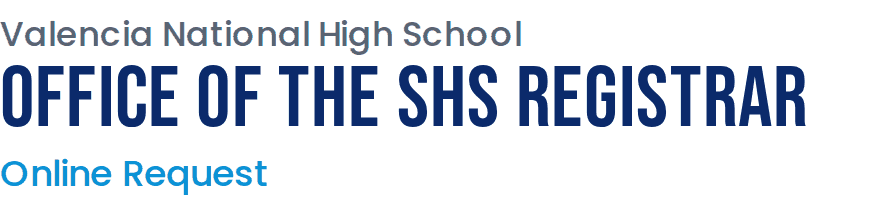
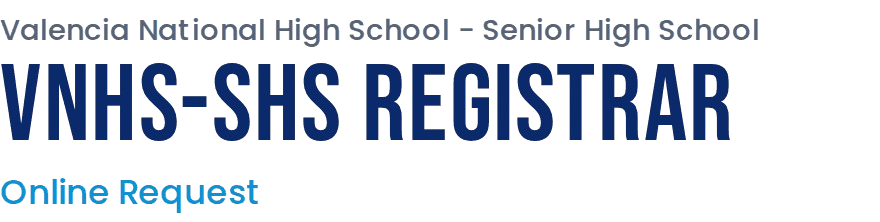
Add files via upload

Changed region(s): [[0.0, 0.0874, 0.9205, 0.6408], [0.0, 0.7573, 0.3068, 0.9612]]

diff --git a/script.js b/script.js
@@ -1,20 +1,37 @@
 (() => {
 const $ = s => document.querySelector(s), $$ = s => [...document.querySelectorAll(s)];
 document.documentElement.classList.add('js');
-// Paste your Google Apps Script Web app URL here (see the setup steps)
-const ENDPOINT = 'https://script.google.com/macros/s/AKfycby1SIQHixCq1fJVodbcekZVC15r-GHJMYR8aryU1QMQK_LP2GeRuWJkvxgegRaxsZC3/exec';
-const useGoogle = !ENDPOINT.includes('PASTE_');
+const ENDPOINT = window.REGISTRAR_ENDPOINT || '';           // set once in config.js
+const useGoogle = ENDPOINT.startsWith('https://script.google.com/');
 const form = $('#f'), esc = s => String(s).replace(/[&<>"]/g, c => ({'&':'&amp;','<':'&lt;','>':'&gt;','"':'&quot;'}[c]));
+// "JUAN" or "dela cruz" becomes "Juan" / "Dela Cruz"; mixed capitals are left alone
 const tidy = t => { t = (t || '').trim().replace(/\s+/g, ' '); return (t === t.toUpperCase() || t === t.toLowerCase()) ? t.toLowerCase().replace(/(^|[\s-])([a-z])/g, (m, a, c) => a + c.toUpperCase()) : t; };
-const today = new Date(); today.setHours(0, 0, 0, 0); const Y = today.getFullYear();
+$('#yr').textContent = new Date().getFullYear();
+$$('[inputmode=numeric]').forEach(i => i.addEventListener('input', () => { if (i.name != 'School Year') i.value = i.value.replace(/\D/g, ''); }));
 
-// Dropdown years: school year 2026-2027 to 2034-2035 (change 2034 to extend)
-for (let y = 2026; y <= 2034; y++) $('#sy').add(new Option(`${y}-${y + 1}`, `${y}-${y + 1}`));
-$('#yr').textContent = Y;
-
-$$('[inputmode=numeric]').forEach(i => i.addEventListener('input', () => i.value = i.value.replace(/\D/g, '')));
-const io = new IntersectionObserver(es => es.forEach(e => { if (e.isIntersecting) { e.target.classList.add('in'); io.unobserve(e.target); } }), {threshold: .1});
+// Scroll reveal
+const io = new IntersectionObserver(es => es.forEach(e => { if (e.isIntersecting) { e.target.classList.add('vis'); io.unobserve(e.target); } }), {threshold: .1});
 $$('.rv').forEach(el => io.observe(el));
+
+// ===== Pages (Home, Request a Form, Track a Request) =====
+const V = {home: $('#v-home'), request: $('#v-request'), track: $('#v-track')};
+let cur = 'home';
+function route() {
+  const id = (location.hash || '#home').slice(1);
+  const view = id == 'request' || id == 'requirements' ? 'request' : id == 'track' ? 'track' : id == 'contact' ? cur : 'home';
+  const changed = view != cur; cur = view;
+  Object.keys(V).forEach(k => V[k].hidden = k != view);          // showing a page replays its fade-in
+  $$('nav li a').forEach(a => a.classList.toggle('on', a.hash == '#' + id));
+  const target = ['requirements', 'faq', 'contact'].includes(id) ? document.getElementById(id) : null;
+  requestAnimationFrame(() => target ? target.scrollIntoView({behavior: changed ? 'instant' : 'smooth', block: 'start'}) : scrollTo({top: 0, behavior: changed ? 'instant' : 'smooth'}));
+}
+addEventListener('hashchange', route); route();
+
+// Document cards on the home page pre-select the document
+$$('[data-doc]').forEach(a => a.addEventListener('click', () => {
+  const r = $$('input[name="Request For"]').find(i => i.value == a.dataset.doc);
+  if (r) { r.checked = true; r.dispatchEvent(new Event('change', {bubbles: true})); }
+}));
 
 // Phone menu
 const nav = $('nav'), burger = $('.burger');
@@ -23,81 +40,51 @@ burger.addEventListener('click', () => menu(!nav.classList.contains('menu-open')
 $$('nav li a').forEach(a => a.addEventListener('click', () => menu(false)));
 document.addEventListener('click', e => { if (!e.target.closest('nav')) menu(false); });
 
-// Copies stepper (1 to 5)
-$$('.stepper button').forEach(b => b.addEventListener('click', () => {
-  const i = b.parentElement.querySelector('input'); i.value = Math.min(5, Math.max(1, +i.value + +b.dataset.s));
-}));
+// ===== School year: free typing, with a prompt when only one year is entered =====
+const sy = form.elements['School Year'], syh = $('#syh');
+const note = (html, bad) => { syh.className = 'syh' + (bad ? ' bad' : ''); syh.innerHTML = html; };
+function checkSY(final) {
+  const v = sy.value.trim(); sy.setCustomValidity('');
+  if (!v) return note('');
+  let m = v.match(/^(\d{4})\s*[-\u2013\/ ]\s*(\d{4})$/);
+  if (m) {
+    const a = +m[1], b = +m[2];
+    if (b == a + 1 && a >= 1990 && a <= 2100) { sy.value = a + '-' + b; return note(''); }
+    sy.setCustomValidity('Use two consecutive years.'); return note('The two years must be consecutive, for example 2025-2026.', true);
+  }
+  m = v.match(/^(\d{4})$/);
+  if (m) {
+    sy.setCustomValidity('Choose a school year.');
+    if (!final) return;
+    const y = +m[1];
+    return note(`Only one year entered. Did you mean:<div class="chips"><button type="button" class="chip" data-v="${y - 1}-${y}">${y - 1}-${y}</button><button type="button" class="chip" data-v="${y}-${y + 1}">${y}-${y + 1}</button></div>`);
+  }
+  if (final) { sy.setCustomValidity('Enter a school year like 2025-2026.'); note('Enter a school year like 2025-2026.', true); }
+}
+sy.addEventListener('input', () => { sy.value = sy.value.replace(/[^\d\-\u2013\/ ]/g, ''); note(''); checkSY(false); });
+sy.addEventListener('change', () => checkSY(true));
+syh.addEventListener('click', e => {
+  const c = e.target.closest('.chip'); if (!c) return;
+  sy.value = c.dataset.v; checkSY(true); sy.dispatchEvent(new Event('input', {bubbles: true}));
+});
 
-// Progress bar + conditional fields
+// ===== Progress bar + conditional fields =====
 const toggle = (box, on) => { box.classList.toggle('show', on); box.querySelectorAll('input,select').forEach(i => { i.disabled = !on; i.required = on; }); };
 function sync() {
   const v = n => form.elements[n].value;
-  toggle($('#m-cert'), v('Request For') === 'Certification');
-  toggle($('#m-oth'), v('Purpose') === 'Others');
-  toggle($('#m-rep'), v('Requester') === 'A representative');
-  toggle($('#m-claim'), !!v('Claim Method') && v('Claim Method') !== 'Pick up in person');
+  toggle($('#m-cert'), v('Request For') == 'Certification');
+  toggle($('#m-dip'), v('Request For') == 'Second Issuance of Diploma');
+  toggle($('#m-oth'), v('Purpose') == 'Others');
+  toggle($('#m-rep'), v('Requester') == 'A Representative');
+  toggle($('#m-claim'), !!v('Claim Method') && v('Claim Method') != 'Pick up in person');
   const names = [...new Set($$('#f [required]').filter(e => !e.disabled).map(e => e.name))];
-  const done = names.filter(n => { const e = form.elements[n]; return e.type === 'checkbox' ? e.checked : !!e.value; }).length;
+  const done = names.filter(n => { const e = form.elements[n]; return e.type == 'checkbox' ? e.checked : !!e.value; }).length;
   const p = Math.round(done / names.length * 100);
   $('#bar').style.width = p + '%'; $('#pc').textContent = p + '% complete';
 }
 form.addEventListener('input', sync); form.addEventListener('change', sync);
 
-// Calendars (request date, birthdate, claim date)
-const MS = ['January','February','March','April','May','June','July','August','September','October','November','December'];
-const CFG = {
-  request: {from: Y, to: Y + 1, min: today, start: Y},
-  claim: {from: Y, to: Y + 1, min: today, start: Y},
-  birth: {from: Y - 40, to: Y - 10, max: today, start: Y - 17, desc: true, noToday: true}
-};
-const pickers = [];
-function picker(root, o) {
-  const i = root.querySelector('input'), c = root.querySelector('.cal'), er = root.querySelector('.err');
-  const p = {i, c, er, v: null, y: o.start, m: today.getMonth(), req: root.hasAttribute('data-req')};
-  const draw = () => {
-    const {y, m} = p, first = new Date(y, m, 1).getDay(), days = new Date(y, m + 1, 0).getDate(), ys = [];
-    for (let t = o.from; t <= o.to; t++) ys.push(t); if (o.desc) ys.reverse();
-    let h = `<div class="ch"><button type="button" data-n="-1" aria-label="Previous month">&lsaquo;</button>
-    <select data-k="m" aria-label="Month">${MS.map((n, k) => `<option value="${k}"${k == m ? ' selected' : ''}>${n}</option>`).join('')}</select>
-    <select data-k="y" aria-label="Year">${ys.map(t => `<option${t == y ? ' selected' : ''}>${t}</option>`).join('')}</select>
-    <button type="button" data-n="1" aria-label="Next month">&rsaquo;</button></div><div class="cg">` +
-      ['Su','Mo','Tu','We','Th','Fr','Sa'].map(d => `<span class="w">${d}</span>`).join('') + '<span></span>'.repeat(first);
-    for (let d = 1; d <= days; d++) {
-      const dt = new Date(y, m, d), k = ['d'], off = (o.min && dt < o.min) || (o.max && dt > o.max);
-      if (+dt == +today) k.push('today'); if (p.v && +dt == +p.v) k.push('sel');
-      h += `<button type="button" class="${k.join(' ')}" data-d="${d}"${off ? ' disabled' : ''}>${d}</button>`;
-    }
-    c.innerHTML = h + `</div><div class="cf">${o.noToday ? '<span></span>' : '<button type="button" data-a="today">Today</button>'}<button type="button" data-a="clear">Clear</button></div>`;
-  };
-  const pick = d => {
-    p.v = d; i.value = d ? d.toLocaleDateString('en-US', {month: 'long', day: 'numeric', year: 'numeric'}) : '';
-    er.textContent = ''; c.classList.remove('open'); i.dispatchEvent(new Event('input', {bubbles: true}));
-  };
-  const open = () => {
-    $$('.cal.open').forEach(x => x.classList.remove('open'));
-    const b = p.v || new Date(o.start, today.getMonth(), 1); p.y = b.getFullYear(); p.m = b.getMonth(); draw(); c.classList.add('open');
-  };
-  i.addEventListener('click', open);
-  i.addEventListener('keydown', e => { if (e.key == 'Enter' || e.key == ' ') { e.preventDefault(); open(); } });
-  c.addEventListener('click', e => {
-    const t = e.target.closest('button'); if (!t) return;
-    if (t.dataset.n) {
-      p.m += +t.dataset.n; if (p.m < 0) { p.m = 11; p.y--; } if (p.m > 11) { p.m = 0; p.y++; }
-      p.y = Math.min(Math.max(p.y, o.from), o.to); draw();
-    } else if (t.dataset.d) pick(new Date(p.y, p.m, +t.dataset.d));
-    else if (t.dataset.a == 'today') pick(new Date(today));
-    else if (t.dataset.a == 'clear') pick(null);
-  });
-  c.addEventListener('change', () => { p.m = +c.querySelector('[data-k=m]').value; p.y = +c.querySelector('[data-k=y]').value; draw(); });
-  pickers.push(p);
-}
-$$('.dp').forEach(r => picker(r, CFG[r.dataset.dp]));
-document.addEventListener('click', e => {
-  const path = e.composedPath(); // keeps the calendar open when a button inside it re-draws the grid
-  $$('.cal.open').forEach(c => { if (!path.includes(c.parentElement)) c.classList.remove('open'); });
-});
-
-// FAQ pop-out window
+// ===== FAQ pop-out window =====
 const fov = $('#fov');
 const faq = on => { fov.classList.toggle('open', on); document.body.style.overflow = on ? 'hidden' : ''; if (on) $('#fclose').focus(); };
 $$('.fq').forEach((b, i, all) => b.addEventListener('click', () => {
@@ -109,40 +96,45 @@ $$('.fq').forEach((b, i, all) => b.addEventListener('click', () => {
 $('#fclose').onclick = $('#fx').onclick = () => faq(false);
 fov.addEventListener('click', e => { if (e.target == fov) faq(false); });
 
-// Data privacy notice window (opens when the box is ticked)
+// ===== Data privacy notice window (opens when the box is ticked, or read-only from the footer) =====
 const pov = $('#pov'), pb = $('#pbody'), cb = form.elements['Privacy Consent'];
 let consent = false;
 const atEnd = () => { $('#pagree').disabled = pb.scrollHeight - pb.scrollTop - pb.clientHeight > 12; };
-const privacy = on => { pov.classList.toggle('open', on); document.body.style.overflow = on ? 'hidden' : ''; if (on) { pb.scrollTop = 0; atEnd(); pb.focus(); } };
+const privacy = (on, read) => {
+  pov.classList.toggle('open', on); document.body.style.overflow = on ? 'hidden' : '';
+  if (!on) return;
+  $('#pagree').hidden = $('#pov .phint').hidden = !!read; $('#pdecline').textContent = read ? 'Close' : 'Decline';
+  pb.scrollTop = 0; atEnd(); pb.focus();
+};
 pb.addEventListener('scroll', atEnd);
 cb.addEventListener('change', () => { if (cb.checked && !consent) { cb.checked = false; privacy(true); } else if (!cb.checked) consent = false; });
 $$('.plink').forEach(a => a.addEventListener('click', e => { e.preventDefault(); privacy(true); }));
+$$('.pread').forEach(a => a.addEventListener('click', e => { e.preventDefault(); privacy(true, true); }));
 $('#pagree').onclick = () => { consent = true; cb.checked = true; privacy(false); cb.dispatchEvent(new Event('input', {bubbles: true})); };
 $('#pdecline').onclick = $('#px').onclick = () => privacy(false);
 pov.addEventListener('click', e => { if (e.target == pov) privacy(false); });
 
-// Review window
+// ===== Review window =====
 const ov = $('#ov');
 const show = on => { ov.classList.toggle('open', on); document.body.style.overflow = on ? 'hidden' : ''; if (on) $('#ok').focus(); };
 form.addEventListener('submit', e => {
-  e.preventDefault(); form.classList.add('tried');
+  e.preventDefault(); form.classList.add('tried'); checkSY(true);
   if (!form.reportValidity()) return;
-  const miss = pickers.filter(p => p.req && !p.i.value);
-  if (miss.length) { miss.forEach(p => p.er.textContent = 'Please select a date.'); miss[0].i.scrollIntoView({block: 'center'}); return; }
   $('#rl').innerHTML = [...new FormData(form)].filter(([k, v]) => k != 'Website' && v !== '')
     .map(([k, v]) => `<div><dt>${k == 'email' ? 'Email' : esc(k)}</dt><dd>${esc(v)}</dd></div>`).join('');
   $('#em').textContent = ''; $('#rv').hidden = false; $('#done').hidden = true; show(true);
 });
 $('#back').onclick = () => show(false);
 ov.addEventListener('click', e => { if (e.target == ov && !$('#rv').hidden) show(false); });
-document.addEventListener('keydown', e => { if (e.key == 'Escape') { $$('.cal.open').forEach(c => c.classList.remove('open')); faq(false); privacy(false); if (!$('#rv').hidden) show(false); } });
+document.addEventListener('keydown', e => { if (e.key == 'Escape') { faq(false); privacy(false); if (!$('#rv').hidden) show(false); } });
 
+// ===== Send =====
 $('#ok').onclick = async () => {
   const b = $('#ok'); $('#em').textContent = '';
   if (!useGoogle) { $('#em').textContent = "The registrar's system is not connected yet. Please try again later."; return; }
   const data = Object.fromEntries(new FormData(form));
   const fn = tidy(data['First Name']), mn = tidy(data['Middle Name']), ln = tidy(data['Last Name']);
-  data['Student Name'] = ln + ', ' + fn + (mn ? ' ' + mn : '');
+  data['Learner Name'] = ln + ', ' + fn + (mn ? ' ' + mn : '');       // one column in the sheet: "Dela Cruz, Juan Santos"
   ['First Name', 'Middle Name', 'Last Name'].forEach(k => delete data[k]);
   Object.keys(data).forEach(k => data[k] === '' && delete data[k]);
   b.disabled = true; b.classList.add('load');
@@ -155,19 +147,21 @@ $('#ok').onclick = async () => {
 };
 const finish = () => { show(false); form.reset(); form.classList.remove('tried'); $('#copy').textContent = 'Copy reference no.'; };
 $('#copy').onclick = () => { navigator.clipboard && navigator.clipboard.writeText($('#ref').textContent); $('#copy').textContent = 'Copied!'; };
-$('#fin').onclick = () => { finish(); scrollTo({top: 0, behavior: 'smooth'}); };
-$('#gotrack').onclick = () => { $('#tref').value = $('#ref').textContent; finish(); $('#track').scrollIntoView({behavior: 'smooth'}); };
-form.addEventListener('reset', () => { pickers.forEach(p => p.v = null); consent = false; setTimeout(sync); });
+$('#fin').onclick = () => { finish(); location.hash = '#home'; };
+$('#gotrack').onclick = () => { $('#tref').value = $('#ref').textContent; finish(); location.hash = '#track'; };
+form.addEventListener('reset', () => { consent = false; note(''); sy.setCustomValidity(''); setTimeout(sync); });
 
-// Request tracking
-const STEPS = ['Received', 'Processing', 'Ready for pick-up', 'Released'];
+// ===== Request tracking =====
 function renderTrack(j) {
-  const idx = {'Received': 0, 'Processing': 1, 'Needs documents': 1, 'Ready for pick-up': 2, 'Released': 3}[j.status] ?? 0, warn = j.status == 'Needs documents';
-  $('#tres').innerHTML = `<div class="tl">${STEPS.map((s, k) => `<div><i>${k + 1}</i>${s}</div>`).join('')}</div>` +
-    (warn ? '<p class="tmsg" style="background:#fff8e1;color:#7a5200">Additional documents are needed. Please read the note from the registrar below.</p>' : '') +
-    `<div class="tinfo"><div><small>Request</small><b>${esc(j.type || '-')}</b></div><div><small>Status</small><b>${esc(j.status)}</b></div>
+  const st = j.status == 'Needs documents' ? 'On Hold' : j.status, hold = st == 'On Hold';
+  // "On Hold" only appears in the timeline when the sheet says the request is on hold
+  const steps = hold ? ['Received', 'Processing', 'On Hold', 'Ready for pick-up', 'Released'] : ['Received', 'Processing', 'Ready for pick-up', 'Released'];
+  const idx = Math.max(0, steps.indexOf(st));
+  $('#tres').innerHTML = `<div class="tl">${steps.map((s, k) => `<div><i>${k + 1}</i>${s}</div>`).join('')}</div>` +
+    (hold ? '<p class="tmsg" style="background:#fff8e1;color:#7a5200">Your request is on hold because the VNHS-SHS Registrar needs requirements from you. Please read the note below and contact the office at 0917-144-5973 or valencianationalshs@gmail.com.</p>' : '') +
+    `<div class="tinfo"><div><small>Request</small><b>${esc(j.type || '-')}</b></div><div><small>Status</small><b>${esc(st)}</b></div>
     <div><small>Last updated</small><b>${esc(j.updated || '-')}</b></div>${j.note ? `<div><small>Note from the registrar</small><b>${esc(j.note)}</b></div>` : ''}</div>`;
-  $$('#tres .tl div').forEach((el, k) => { if (k <= idx) setTimeout(() => { el.classList.add('on'); if (k == idx) el.classList.add(warn ? 'warn' : 'now'); }, 250 * k + 150); });
+  $$('#tres .tl div').forEach((el, k) => { if (k <= idx) setTimeout(() => { el.classList.add('on'); if (k == idx) el.classList.add(hold ? 'warn' : 'now'); }, 250 * k + 150); });
 }
 $('#trk').addEventListener('submit', async e => {
   e.preventDefault();

diff --git a/style.css b/style.css
@@ -71,24 +71,7 @@ legend b{width:26px;height:26px;border-radius:50%;background:var(--royal);color:
 .more.show{grid-template-rows:1fr}
 .more>div{overflow:hidden}.more>div>.f{margin-top:16px}
 
-.dp .in{padding-right:44px;cursor:pointer;caret-color:transparent}
-.dp svg{position:absolute;right:14px;top:37px;width:20px;height:20px;color:var(--royal);pointer-events:none}
-.cal{position:absolute;z-index:30;left:0;top:calc(100% + 6px);width:300px;padding:14px;background:#fff;border:1px solid var(--line);border-radius:16px;box-shadow:0 18px 44px rgba(12,42,107,.22);opacity:0;visibility:hidden;transform:translateY(-8px) scale(.97);transform-origin:top left;transition:all .25s}
-.cal.open{opacity:1;visibility:visible;transform:none}
-.ch{display:flex;gap:6px;margin-bottom:10px}
-.ch button{flex:none;width:32px;border:0;border-radius:8px;background:#f1f6fd;color:var(--royal);font-size:18px;cursor:pointer;transition:background .2s}
-.ch button:hover{background:#dcebfc}
-.ch select{flex:1;min-width:0;border:0;border-radius:8px;background:#f1f6fd;padding:6px;font:600 13px Poppins;color:var(--navy);cursor:pointer}
-.cg{display:grid;grid-template-columns:repeat(7,1fr);gap:2px;text-align:center;animation:fade .25s}
 @keyframes fade{from{opacity:0}}
-.cg .w{font-size:11px;font-weight:600;color:var(--mut);padding:4px 0}
-.cg .d{aspect-ratio:1;border:0;border-radius:50%;background:none;font:500 13px Poppins;color:var(--ink);cursor:pointer;transition:all .2s}
-.cg .d:hover:not(:disabled){background:#e3effd;transform:scale(1.1)}
-.cg .today{box-shadow:inset 0 0 0 1.5px var(--sky)}
-.cg .sel{background:var(--royal);color:#fff}
-.cg .d:disabled{color:#b8c2d3;cursor:not-allowed}
-.cf{display:flex;justify-content:space-between;margin-top:10px;padding-top:10px;border-top:1px solid var(--line)}
-.cf button{border:0;background:none;color:var(--royal);font:600 13px Poppins;cursor:pointer}
 
 .consent{display:flex;gap:12px;margin-top:22px;padding:14px 16px;border:1.5px solid var(--line);border-radius:12px;background:#f7faff;font-size:13px;color:var(--mut)}
 .consent input{flex:none;width:18px;height:18px;margin-top:3px;accent-color:var(--royal)}
@@ -150,13 +133,10 @@ dt{color:var(--mut);font-weight:500}dd{margin:0;font-weight:500;word-break:break
 .refno{display:inline-block;margin:8px 0;padding:8px 18px;border:1.5px dashed var(--royal);border-radius:10px;background:#eef5ff;font:600 18px Poppins;letter-spacing:.06em;color:var(--navy)}
 
 .js .rv{opacity:0;transform:translateY(24px);transition:opacity .7s,transform .7s cubic-bezier(.2,.8,.2,1)}
-.js .rv.in{opacity:1;transform:none}
+.js .rv.vis{opacity:1;transform:none}
 .f.s4{grid-column:span 4}
 .opts.two{grid-template-columns:repeat(2,1fr)}
 .hint{margin:14px 0 0;padding:10px 14px;background:#fff8e1;border-left:4px solid var(--gold);border-radius:8px;font-size:13px;color:#5c4a12}
-.stepper{display:flex;gap:8px}.stepper .in{text-align:center;font-weight:600;cursor:default}
-.stepper button{flex:none;width:44px;border:1.5px solid var(--line);border-radius:10px;background:#fff;color:var(--royal);font-size:20px;cursor:pointer;transition:all .2s}
-.stepper button:hover{background:#eef5ff;border-color:var(--sky);transform:scale(1.06)}
 .track{max-width:1120px;margin:0 auto;padding:10px 24px 30px}
 .tcard{padding:26px}
 .trow{display:flex;gap:10px;padding:0;max-width:520px}.trow .in{flex:1}
@@ -216,9 +196,6 @@ nav.menu-open .burger span:after{transform:translateY(-6px) rotate(-45deg)}
   .tl div{font-size:11px}
   .dlg{padding:20px 18px;max-height:90dvh}
   .foot>div{padding:22px 16px}
-  .cal{position:fixed;left:0;right:0;top:auto;bottom:-20px;margin:0 auto;width:min(340px,calc(100vw - 24px));z-index:60;transform:none;box-shadow:0 -6px 40px rgba(8,22,60,.35);transition:bottom .3s ease,opacity .25s,visibility .25s}
-  .cal.open{bottom:14px}
-  .cg .d{font-size:14px}
 }
 
 .hp{position:absolute;left:-9999px;width:1px;height:1px;opacity:0;pointer-events:none}
@@ -235,3 +212,62 @@ nav.menu-open .burger span:after{transform:translateY(-6px) rotate(-45deg)}
 #pagree:disabled{cursor:not-allowed;opacity:.45;box-shadow:none;transform:none}
 .plink{color:var(--royal);font-weight:600}
 @media(max-width:700px){#pbody{max-height:52dvh}}
+
+/* ===== Pages, home, footer ===== */
+.view{animation:viewIn .55s cubic-bezier(.2,.8,.2,1)}
+.view[hidden]{display:none}
+@keyframes viewIn{from{opacity:0;transform:translateY(14px)}}
+.top a{margin-left:0}
+nav li a.on{color:var(--navy)}nav li a.on:after{transform:scaleX(1)}
+.hero-in{padding:56px 24px 96px}
+.cta{display:flex;flex-wrap:wrap;gap:12px;margin-top:24px}
+.cbtn{display:inline-flex;align-items:center;padding:14px 30px;border-radius:12px;font:600 15px Poppins,sans-serif;text-decoration:none;transition:transform .25s,box-shadow .25s,background .25s}
+.cbtn.gold{background:var(--gold);color:var(--navy);box-shadow:0 8px 22px rgba(253,185,19,.35)}
+.cbtn.gold:hover{box-shadow:0 12px 28px rgba(253,185,19,.5)}
+.cbtn.line{border:2px solid rgba(255,255,255,.7);color:#fff}
+.cbtn.line:hover{background:rgba(255,255,255,.14)}
+.cbtn:hover{transform:translateY(-3px)}
+.cbtn:focus-visible{outline:3px solid #fff;outline-offset:3px}
+.docs{max-width:1120px;margin:-48px auto 0;padding:0 24px;display:grid;grid-template-columns:repeat(3,1fr);gap:16px;position:relative}
+.doc{background:#fff;border:1px solid var(--line);border-radius:16px;padding:22px 22px 18px;box-shadow:0 10px 30px rgba(12,42,107,.1);transition:transform .3s,box-shadow .3s}
+.doc:hover{transform:translateY(-5px);box-shadow:0 16px 36px rgba(12,42,107,.16)}
+.doc .ic{width:46px;height:46px;margin-bottom:12px;border-radius:12px;background:#eef5ff;color:var(--royal);display:grid;place-items:center;transition:background .3s,color .3s}
+.doc:hover .ic{background:var(--gold);color:var(--navy)}
+.doc svg{width:24px;height:24px;fill:none;stroke:currentColor;stroke-width:1.8;stroke-linecap:round;stroke-linejoin:round}
+.doc h3{margin:0 0 4px;font:600 16px Poppins,sans-serif;color:var(--navy)}
+.doc p{margin:0 0 12px;font-size:13.5px;color:var(--mut)}
+.doc a{font-weight:600;font-size:14px;color:var(--royal);text-decoration:none}.doc a:hover{text-decoration:underline}
+.sec{max-width:1120px;margin:0 auto;padding:46px 24px 14px}
+.sec h2{margin:0;font:400 36px "Bebas Neue",sans-serif;letter-spacing:.04em;color:var(--navy)}
+.sec .sub{margin:0;color:var(--mut);font-size:14px}
+.steps.flat{margin-top:0}
+.steps.four{grid-template-columns:repeat(4,1fr)}
+.sec-note{max-width:1120px;margin:14px auto 0;padding:0 24px;font-size:14px;color:var(--mut)}
+.sec-note a{color:var(--royal);font-weight:600}
+.faq{padding-top:34px}
+.pagebar{background:linear-gradient(120deg,#0a2460,#124aa5 70%,#1666c9);color:#fff}
+.pagebar>div{max-width:1120px;margin:0 auto;padding:30px 24px 62px}
+.pagebar small{font-size:13px;color:#cfe0fb}.pagebar small a{color:#fff;text-decoration:none}.pagebar small a:hover{text-decoration:underline}
+.pagebar h1{margin:2px 0 0;font:400 clamp(34px,5vw,52px)/1 "Bebas Neue",sans-serif;letter-spacing:.03em;color:var(--gold)}
+.pagebar+.wrap{margin-top:-40px;padding-top:0}
+.pagebar+.track{margin-top:-40px;padding-top:0;position:relative}
+.syh{margin-top:6px;font-size:12.5px;color:var(--mut)}.syh:empty{display:none}.syh.bad{color:var(--bad)}
+.chips{display:flex;flex-wrap:wrap;gap:8px;margin-top:6px}
+.chip{padding:7px 14px;border:1.5px solid var(--sky);border-radius:999px;background:#fff;color:var(--royal);font:600 13px Poppins,sans-serif;cursor:pointer;transition:all .2s}
+.chip:hover{background:var(--royal);border-color:var(--royal);color:#fff}
+.hint.imp{background:#fff3cd;border-left-color:#f59e0b;color:#5c3d00}
+.box .reqs{margin:0;padding-left:20px}
+.box .reqs>li{margin-bottom:10px}
+.box .reqs ol{list-style:lower-alpha;margin:6px 0 0;padding-left:22px}
+.box .reqs ol li{margin-bottom:4px}
+.foot{background:#0a2460}
+.foot .fgrid{display:grid;grid-template-columns:1.5fr 1fr 1fr;gap:30px;padding:38px 24px 26px}
+.foot strong{display:block;margin-bottom:6px;font:400 26px "Bebas Neue",sans-serif;letter-spacing:.05em;color:var(--gold)}
+.foot h4{margin:0 0 10px;font:600 14px Poppins,sans-serif;letter-spacing:.04em;color:#fff}
+.foot p,.foot ul{margin:0;padding:0;list-style:none;line-height:1.9}
+.foot a{color:#c9d6f2;text-decoration:none}.foot a:hover{color:#fff;text-decoration:underline}
+.foot>div.copy{display:block;padding:14px 24px;border-top:1px solid rgba(255,255,255,.14);font-size:12px;color:#9fb2dc}
+@media(max-width:900px){.docs{grid-template-columns:1fr;margin-top:-40px}.steps.four{grid-template-columns:1fr}}
+@media(max-width:700px){.foot .fgrid{grid-template-columns:1fr;gap:20px;padding:28px 16px 18px}.foot>div.copy{padding:14px 16px}.hero-in{padding:30px 18px 78px}.sec{padding:34px 16px 10px}.docs,.sec-note{padding-left:16px;padding-right:16px}.pagebar>div{padding:24px 16px 56px}}
+.doc{display:flex;flex-direction:column}
+.doc p{flex:1}

diff --git a/config.js b/config.js
@@ -1,0 +1,3 @@
+// Paste your Google Apps Script Web app URL between the quotation marks. You only need to do this once.
+// It starts with https://script.google.com/macros/s/ and ends with /exec
+window.REGISTRAR_ENDPOINT = "https://script.google.com/macros/s/AKfycby1SIQHixCq1fJVodbcekZVC15r-GHJMYR8aryU1QMQK_LP2GeRuWJkvxgegRaxsZC3/exec";
